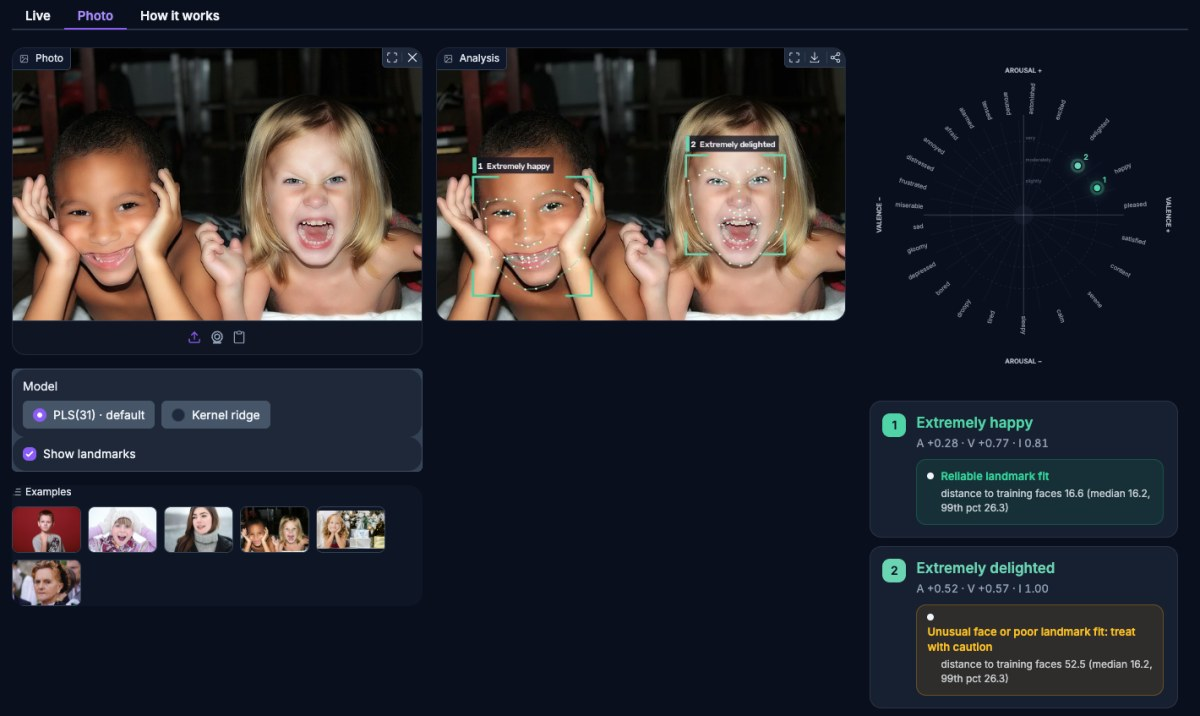
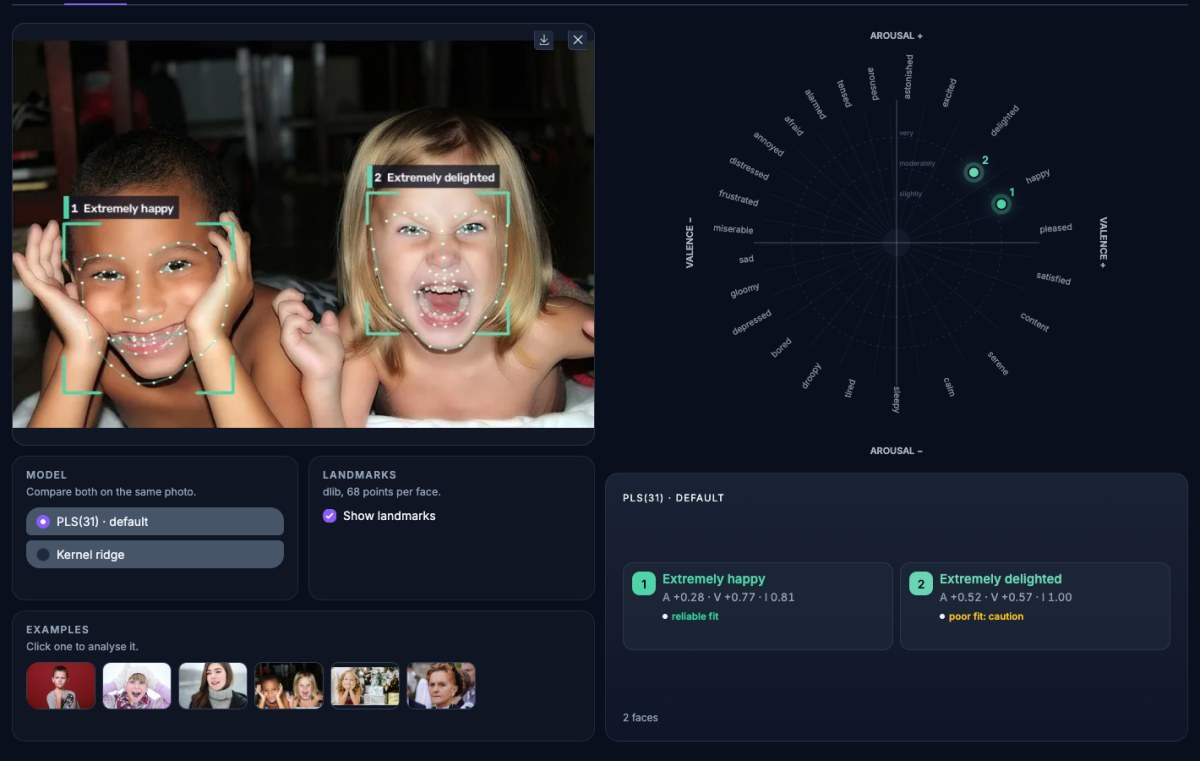
Web demo: Photo tab in the same layout as the Live tab
Photo and settings | AV plane and estimates, 50/50, bottoms aligned.
The analysed photo is drawn exactly over the upload box (remove and
download buttons top-right); settings in group boxes (model,
landmarks, examples); results use the same fixed estimates card as the
live tab (up to 6 faces listed). Removed the now-unused metrics_card,
faces_grid, empty_card and status_banner renderers.

Claude-Session: https://claude.ai/code/session_01VNTeVae7v3LQXi4TSodUKv

diff --git a/app/style.css b/app/style.css
@@ -299,3 +299,28 @@ button[role="tab"][aria-selected="true"] { color: var(--fea-accent) !important; 
 .fea-group .fea-calib-row > * { flex: 1 1 0 !important; min-width: 0 !important; }
 .fea-group .fea-calib-row > .fea-calibrate { flex-grow: 1.6 !important; }
 .fea-group .fea-calib-row button { min-width: 0 !important; white-space: nowrap; overflow: hidden; text-overflow: ellipsis; }
+
+/* ------------------------------------------------------------------ photo tab */
+.fea-photo-stage { position: relative; gap: 0 !important; }
+.fea-photo-in { height: 500px !important; max-height: 500px !important; border-radius: 16px !important; overflow: hidden; }
+.fea-photo-in img, .fea-photo-out img { object-fit: contain !important; }
+.fea-photo-out {
+  position: absolute !important; inset: 0; margin: 0 !important; padding: 0 !important;
+  border-radius: 16px !important; overflow: hidden; z-index: 5; background: var(--fea-card) !important;
+  border: 1px solid var(--fea-border) !important;
+}
+.fea-photo-out .image-container, .fea-photo-out .image-container > button,
+.fea-photo-out .image-frame { width: 100% !important; height: 100% !important; max-height: none !important; padding: 0 !important; }
+.fea-photo-out img { width: 100% !important; height: 100% !important; }
+.fea-photo-out > .wrap { display: none !important; }
+/* before an analysis exists, the upload box shows through */
+.fea-photo-out:not(:has(img)) { visibility: hidden; }
+/* the upload box's own clear / source buttons stay usable above the analysis */
+.fea-photo-in .icon-button-wrapper, .fea-photo-in .source-selection { position: relative; z-index: 10 !important; }
+.fea-examples .gallery { gap: 8px !important; }
+.fea-examples .gallery-item, .fea-examples button.gallery-item { border-radius: 10px !important; overflow: hidden; }
+.fea-examples .label { display: none !important; }
+.fea-examples .gallery { padding: 0 !important; }
+/* upload box: its clear button top-right, the download of the analysis just left of it */
+.fea-photo-in .icon-button-wrapper { position: absolute !important; top: 8px !important; right: 8px !important; left: auto !important; z-index: 12 !important; }
+.fea-photo-out .icon-button-wrapper { position: absolute !important; top: 8px !important; right: 48px !important; left: auto !important; }

diff --git a/app/app.py b/app/app.py
@@ -34,9 +34,6 @@ from render import (
     draw_countdown,
     draw_overlay,
     estimates_card,
-    faces_grid,
-    fit_badge,
-    metrics_card,
 )
 
 REPO = "https://github.com/bbonik/facial-expression-analysis"
@@ -136,9 +133,20 @@ def live_step(
     return overlay, _wrap_svg(circumplex_svg(points, trails, size=640)), card, state
 
 
+PHOTO_MAX_FACES = 6
+PHOTO_EMPTY = {"empty_title": "No photo yet", "empty_hint": "Upload a photo or pick an example."}
+
+
+def photo_card(faces, model, footer=""):
+    rows = [(f.point, f.distance, []) for f in faces]
+    return estimates_card(
+        rows, model_name=model, p50=ENGINE.p50, p99=ENGINE.p99, footer=footer, **PHOTO_EMPTY
+    )
+
+
 def analyze_photo(image, model, show_landmarks):
     if image is None:
-        return None, _wrap_svg(circumplex_svg()), faces_grid([])
+        return None, _wrap_svg(circumplex_svg(size=640)), photo_card([], model)
     image = np.ascontiguousarray(image[..., :3], dtype=np.uint8)
     faces = ENGINE.analyze(image, model, photo=True)
     overlay = draw_overlay(
@@ -148,12 +156,15 @@ def analyze_photo(image, model, show_landmarks):
         [f.point for f in faces],
         show_landmarks=show_landmarks,
     )
-    rows = [(f.point, fit_badge(*ENGINE.fit(f.distance))) for f in faces]
-    if len(faces) == 1:  # a single face gets the full card
-        f = faces[0]
-        card = metrics_card(f.point, model_name=model, fit=ENGINE.fit(f.distance))
-        return overlay, _wrap_svg(circumplex_svg([f.point])), card
-    return overlay, _wrap_svg(circumplex_svg([f.point for f in faces])), faces_grid(rows)
+    shown = faces[:PHOTO_MAX_FACES]
+    if not faces:
+        footer = "No face found. Try a larger, frontal, well-lit face."
+    elif len(faces) > len(shown):
+        footer = f"{len(shown)} of {len(faces)} faces listed"
+    else:
+        footer = f"{len(faces)} face{'s' if len(faces) > 1 else ''}"
+    card = photo_card(shown, model, footer)
+    return overlay, _wrap_svg(circumplex_svg([f.point for f in faces], size=640)), card
 
 
 # ----------------------------------------------------------------------------- content
@@ -392,29 +403,51 @@ def build() -> gr.Blocks:
                 )
 
             with gr.Tab("Photo", id="photo"):
-                with gr.Row(equal_height=False):
-                    with gr.Column(scale=5, min_width=320):
-                        photo = gr.Image(
-                            sources=["upload", "clipboard", "webcam"], type="numpy",
-                            label="Photo",
-                        )  # fmt: skip
-                        photo_model = gr.Radio(list(MODELS), value=DEFAULT_MODEL, label="Model")
-                        photo_lm = gr.Checkbox(True, label="Show landmarks")
-                        if EXAMPLES is not None:
-                            gr.Examples(
-                                examples=sorted(
-                                    str(p) for p in EXAMPLES.iterdir()
-                                    if p.suffix.lower() in {".jpg", ".jpeg", ".png"}
-                                ),
-                                inputs=photo, label="Examples",
+                # Same structure as the live tab: image + settings | AV plane + estimates
+                with gr.Row(equal_height=True, elem_classes="fea-grid-row"):
+                    with gr.Column(scale=1, min_width=320, elem_classes="fea-col fea-col-left"):
+                        with gr.Column(elem_classes="fea-photo-stage"):
+                            photo = gr.Image(
+                                sources=["upload"], type="numpy", buttons=[],
+                                show_label=False, elem_classes="fea-photo-in", height=CAM_HEIGHT,
                             )  # fmt: skip
-                    with gr.Column(scale=5, min_width=320):
-                        photo_out = gr.Image(label="Analysis", interactive=False)
-                    with gr.Column(scale=4, min_width=300):
-                        photo_circ = gr.HTML(
-                            _wrap_svg(circumplex_svg()), elem_classes="fea-html-plain"
+                            # the analysed photo is drawn exactly over the uploaded one
+                            photo_out = gr.Image(
+                                show_label=False, interactive=False, buttons=["download"],
+                                elem_classes="fea-photo-out",
+                            )  # fmt: skip
+                        with gr.Column(elem_classes="fea-settings"):
+                            with gr.Row(equal_height=True, elem_classes="fea-settings-row"):
+                                with gr.Group(elem_classes="fea-group"):
+                                    _group_title("Model", "Compare both on the same photo.")
+                                    photo_model = gr.Radio(
+                                        list(MODELS), value=DEFAULT_MODEL, show_label=False,
+                                        elem_classes="fea-radio-stack",
+                                    )  # fmt: skip
+                                with gr.Group(elem_classes="fea-group"):
+                                    _group_title("Landmarks", "dlib, 68 points per face.")
+                                    photo_lm = gr.Checkbox(True, label="Show landmarks")
+                            if EXAMPLES is not None:
+                                with (
+                                    gr.Row(elem_classes="fea-settings-row"),
+                                    gr.Group(elem_classes="fea-group fea-examples"),
+                                ):
+                                    _group_title("Examples", "Click one to analyse it.")
+                                    gr.Examples(
+                                        examples=sorted(
+                                            str(p) for p in EXAMPLES.iterdir()
+                                            if p.suffix.lower() in {".jpg", ".jpeg", ".png"}
+                                        ),
+                                        inputs=photo, label=None, examples_per_page=12,
+                                    )  # fmt: skip
+                    with gr.Column(scale=1, min_width=320, elem_classes="fea-col fea-col-right"):
+                        with gr.Column(elem_classes="fea-plane"):
+                            photo_circ = gr.HTML(
+                                _wrap_svg(circumplex_svg(size=640)), elem_classes="fea-html-plain"
+                            )
+                        photo_faces = gr.HTML(
+                            photo_card([], DEFAULT_MODEL), elem_classes="fea-html-plain"
                         )
-                        photo_faces = gr.HTML(faces_grid([]), elem_classes="fea-html-plain")
                 for trigger in (photo.change, photo_model.change, photo_lm.change):
                     trigger(
                         analyze_photo,

diff --git a/app/render.py b/app/render.py
@@ -220,14 +220,6 @@ def _bar(name: str, value: float, bipolar: bool, color: str) -> str:
     )
 
 
-def status_banner(text: str, kind: str = "info") -> str:
-    """Calibration progress / result shown above the estimates."""
-    return f'<div class="fea-status fea-status-{kind}">{html.escape(text)}</div>'
-
-
-CALIBRATED_CHIP = '<span class="fea-chip">calibrated</span>'
-
-
 def fit_badge(distance: float | None, p50: float | None, p99: float | None) -> str:
     if distance is None or p99 is None:
         return ""
@@ -243,67 +235,6 @@ def fit_badge(distance: float | None, p50: float | None, p99: float | None) -> s
         f'<span class="fea-badge-sub">distance to training faces {distance:.1f} '
         f"({ref})</span></div>"
     )
-
-
-LIVE_HINT = ("No face detected yet", "Start the camera and face it in good, even light.")
-PHOTO_HINT = ("No face to show yet", "Upload a photo or pick one of the examples.")
-
-
-def empty_card(hint: tuple[str, str] = LIVE_HINT) -> str:
-    title, sub = (html.escape(t) for t in hint)
-    return (
-        '<div class="fea-card fea-empty"><div class="fea-empty-icon">◎</div>'
-        f'<div>{title}</div><div class="fea-muted">{sub}</div></div>'
-    )
-
-
-def metrics_card(
-    point: Point | None,
-    *,
-    model_name: str,
-    fit: tuple[float | None, float | None, float | None] = (None, None, None),
-    footer: str = "",
-    hint: tuple[str, str] = LIVE_HINT,
-    calibrated: bool = False,
-) -> str:
-    """Large label, A/V/I bars and the fit badge for the tracked face."""
-    if point is None:
-        return empty_card(hint)
-    color = valence_hex(point.valence)
-    bars = (
-        _bar("Arousal", point.arousal, True, color)
-        + _bar("Valence", point.valence, True, color)
-        + _bar("Intensity", point.intensity, False, color)
-    )
-    return (
-        '<div class="fea-card">'
-        f'<div class="fea-kicker">{html.escape(model_name)}'
-        + (" " + CALIBRATED_CHIP if calibrated else "")
-        + "</div>"
-        f'<div class="fea-label" style="color:{color}">{html.escape(point.label)}</div>'
-        f'<div class="fea-metrics">{bars}</div>'
-        f"{fit_badge(*fit)}"
-        + (f'<div class="fea-footer">{footer}</div>' if footer else "")
-        + "</div>"
-    )
-
-
-def faces_grid(rows: Sequence[tuple[Point, str]]) -> str:
-    """One compact card per face (photo mode); ``rows`` = (point, fit badge html)."""
-    if not rows:
-        return empty_card(PHOTO_HINT)
-    cards = []
-    for p, badge in rows:
-        color = valence_hex(p.valence)
-        cards.append(
-            '<div class="fea-face">'
-            f'<div class="fea-face-tag" style="background:{p.accent or color}">'
-            f"{html.escape(p.tag)}</div>"
-            f'<div class="fea-face-label" style="color:{color}">{html.escape(p.label)}</div>'
-            f'<div class="fea-face-nums">A {p.arousal:+.2f} · V {p.valence:+.2f} · '
-            f"I {p.intensity:.2f}</div>{badge}</div>"
-        )
-    return f'<div class="fea-faces">{"".join(cards)}</div>'
 
 
 # --------------------------------------------------------------------------- overlay
@@ -398,8 +329,10 @@ def estimates_card(
     p50: float | None = None,
     p99: float | None = None,
     footer: str = "",
+    empty_hint: str = "Start the camera and face it in good, even light.",
+    empty_title: str = "No face detected yet",
 ) -> str:
-    """Fixed-height estimates panel for the live tab: same box for 0, 1 or several faces.
+    """Fixed-height estimates panel (live and photo tabs): same box for 0, 1 or more faces.
 
     ``faces`` holds (smoothed point, fit distance, per-face chips). Status is shown only
     as chips in the header row, so nothing appears, disappears or moves.
@@ -414,8 +347,8 @@ def estimates_card(
     if not faces:
         body = (
             '<div class="fea-est-empty"><div class="fea-empty-icon">◎</div>'
-            "<div>No face detected yet</div>"
-            '<div class="fea-muted">Start the camera and face it in good, even light.</div></div>'
+            f"<div>{html.escape(empty_title)}</div>"
+            f'<div class="fea-muted">{html.escape(empty_hint)}</div></div>'
         )
     elif len(faces) == 1:
         p, dist, _ = faces[0]

diff --git a/tests/test_app.py b/tests/test_app.py
@@ -19,9 +19,7 @@ from render import (
     Point,
     circumplex_svg,
     draw_overlay,
-    faces_grid,
     fit_badge,
-    metrics_card,
     valence_hex,
 )
 
@@ -52,19 +50,24 @@ def test_valence_colours() -> None:
 
 
 def test_cards() -> None:
-    card = metrics_card(Point(0.1, -0.5, 0.51, "Moderately sad"), model_name="PLS(31)",
-                        fit=(30.0, 16.0, 26.0))  # fmt: skip
+    from render import estimates_card
+
+    card = estimates_card([(Point(0.1, -0.5, 0.51, "Moderately sad"), 30.0, [])],
+                          model_name="PLS(31)", p50=16.0, p99=26.0)  # fmt: skip
     assert "Moderately sad" in card
     assert "fea-badge-warn" in card
     assert "+0.51" not in card
     assert "0.51" in card
-    assert "fea-empty" in metrics_card(None, model_name="x")
     assert "fea-badge-ok" in fit_badge(10.0, 16.0, 26.0)
     assert fit_badge(None, 16.0, 26.0) == ""
-    grid = faces_grid([(Point(0.2, 0.7, 0.73, "Very happy", "1"), ""),
-                       (Point(0.5, -0.4, 0.64, "Very annoyed", "2"), "")])  # fmt: skip
-    assert grid.count('class="fea-face"') == 2
-    assert "Upload a photo" in faces_grid([])
+    grid = estimates_card([(Point(0.2, 0.7, 0.73, "Very happy", "1"), 10.0, []),
+                           (Point(0.5, -0.4, 0.64, "Very annoyed", "2"), 10.0, [])],
+                          model_name="x", p99=26.0)  # fmt: skip
+    assert grid.count('class="fea-mini"') == 2
+    empty = estimates_card([], model_name="x", empty_title="No photo yet",
+                           empty_hint="Upload a photo or pick an example.")  # fmt: skip
+    assert "No photo yet" in empty
+    assert "Upload a photo" in empty
 
 
 def test_overlay_keeps_shape(landmarks: np.ndarray) -> None:
